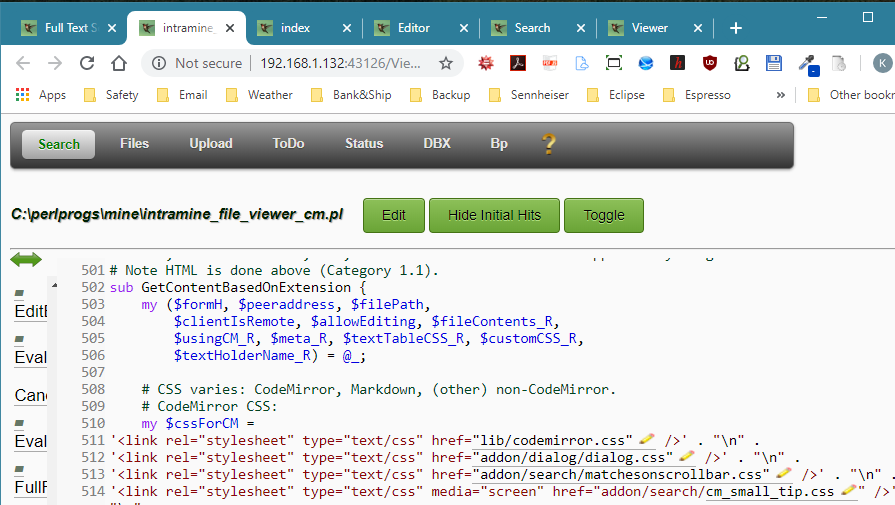
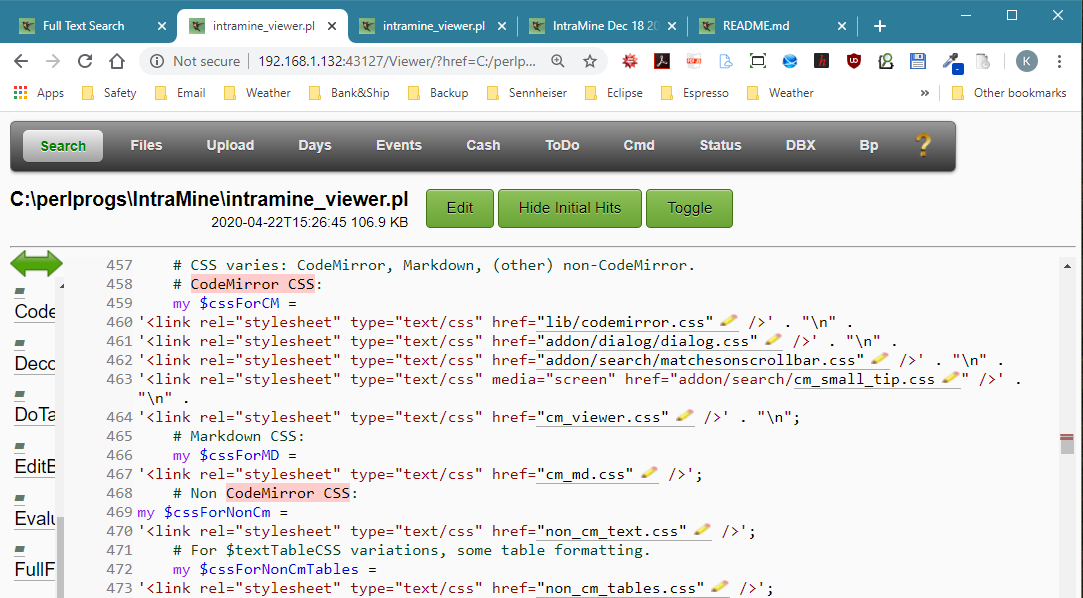
Viewer mod date and file size
Added at top of View. Screenshots redone.

diff --git a/css_for_web_server/main.css b/css_for_web_server/main.css
@@ -613,8 +613,39 @@ a.embedded_image {
 	left: -64px;
 }
 
+#title-block {
+	display: inline-block;
+	max-height: 60px;
+	overflow: hidden;
+	text-align: right;
+}
+
+
 #viewEditTitle {
 	margin-right: 12px;
+	display: inline-block;
+	font-size: 1.4em;
+	font-weight: bold;
+}
+
+#viewEditDateSize {
+	margin-right: 12px;
+}
+
+#title-blockTR {
+	max-height: 60px;
+	overflow: hidden;
+}
+
+#title-blockTD {
+	max-height: 60px;
+	overflow: hidden;
+}
+
+#button-block {
+	display: inline-block;
+	vertical-align: top;
+	/*margin-top: 20px;*/
 }
 
 /* For the Status page main status tables. */
